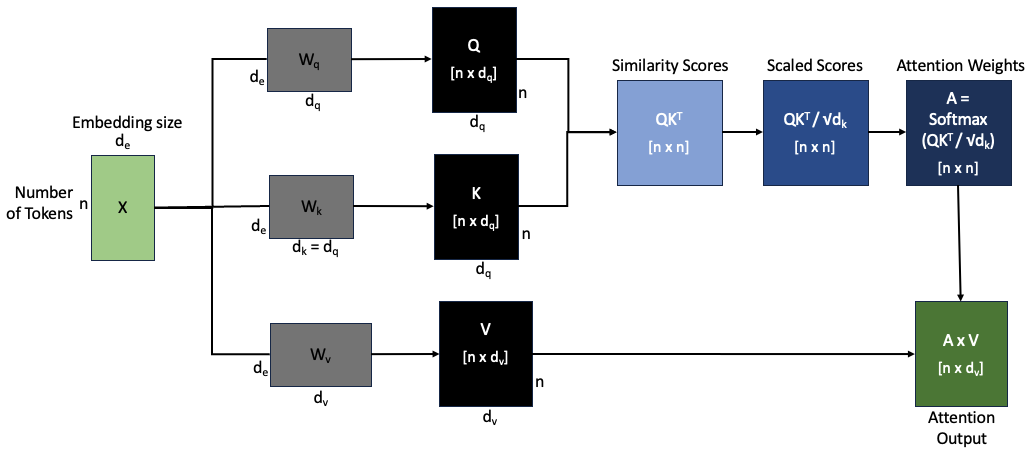
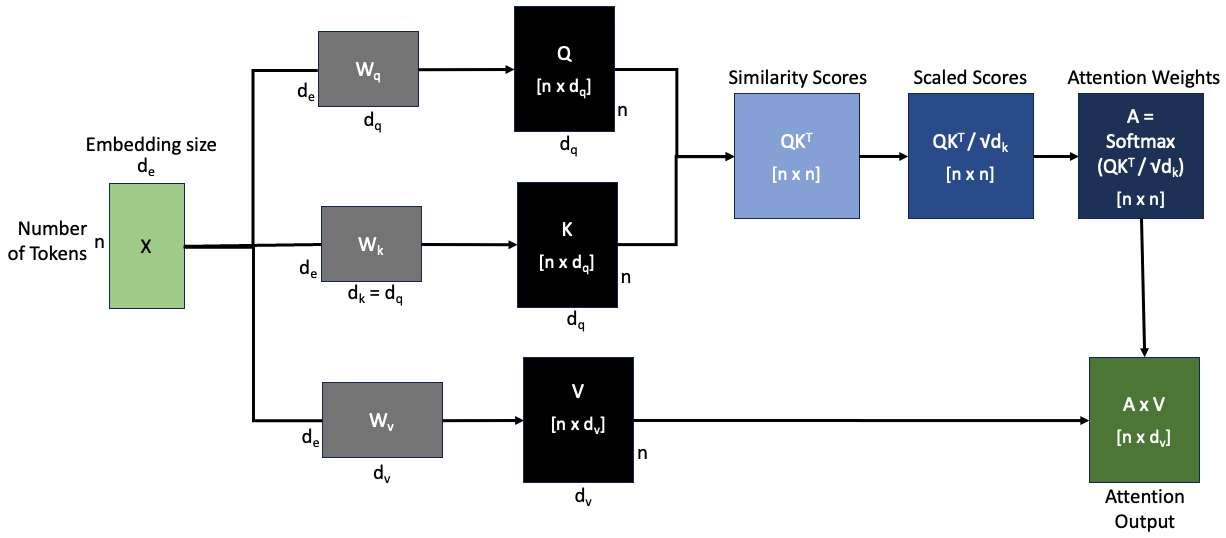
Add detailed Input Representation section with visual and equations

diff --git a/docs/transformers.html b/docs/transformers.html
@@ -433,7 +433,7 @@ P = [p_1, p_2, \dots, p_n], \quad P \in \mathbb{R}^{d_e \times n}
 <div class="quarto-figure quarto-figure-center">
 <figure class="figure">
 <p><img src="images/self-attention.png" class="img-fluid figure-img"></p>
-<figcaption>Figure: Attention — step-by-step computation, with variables, and operations.</figcaption>
+<figcaption>Figure: Attention — step-by-step computation, with variables, shapes, and operations.</figcaption>
 </figure>
 </div>
 <p><strong>Breakdown of the Steps</strong></p>
